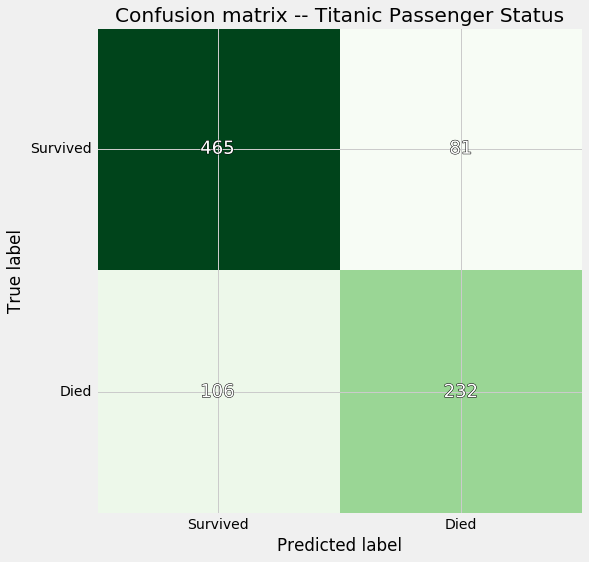
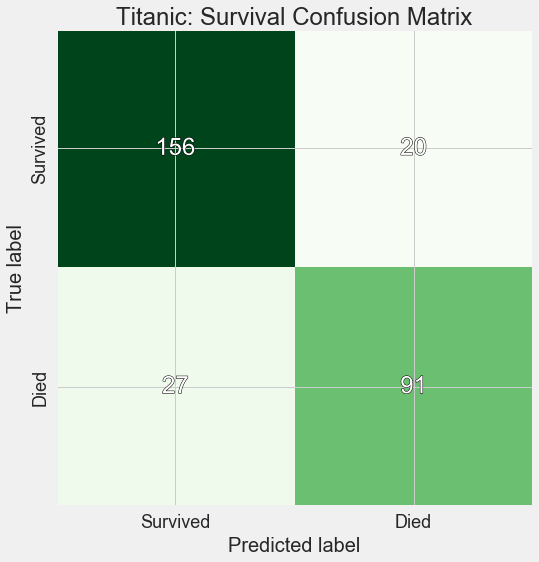
omwr

diff --git a/_posts/2016-7-14-Titanic.md b/_posts/2016-7-14-Titanic.md
@@ -3,29 +3,16 @@ layout: post
 title: Titanic Passengers -- Who Survived?
 ---
 ![scatter](../images/titanicfarevage.png)
-&nbsp;&nbsp;&nbsp;&nbsp;&nbsp;&nbsp;[Here](https://github.com/forzavitale/DSI-projects/tree/master/PROJECTS/Titanic) I used logistic regression on the widely available Titanic passenger data set to construct a model predicting survival.  For 891 passenger observations, original features included: survival status, passenger class, full name, sex, age, number of siblings on board, number of parents/children on board, ticket information, fare paid, cabin information, and location of embarkation.
+&nbsp;&nbsp;&nbsp;&nbsp;&nbsp;&nbsp; Here, we use logistic regression on the widely-available Titanic passenger data set to predict passenger survival.  For 891 passenger observations, features provided include: survival status, passenger class, full name, sex, age, number of siblings on board, number of parents/children on board, ticket information, fare paid, cabin information, and point of embarkation.
 
-&nbsp;&nbsp;&nbsp;&nbsp;&nbsp;&nbsp;Although about 20% of ages are missing from the data set, a histogram shows a roughly normal distribution of age around 30 years, with at least 40 children.
+&nbsp;&nbsp;&nbsp;&nbsp;&nbsp;&nbsp; Although about 20% of ages are missing from the data set, a histogram shows a roughly normal distribution of age around 30 years, with at least 40 children.
 
 ![histo](../images/titanicagehisto.png)
 
-&nbsp;&nbsp;&nbsp;&nbsp;&nbsp;&nbsp;From the following scatterplot of fare paid vs age of passenger, we can see for example young males and well-paying females had relatively high survival rates. It appears that most males who paid no fare did not survive (no females paid no fare).  There were not as many older women as older men, either alive or dead, and, in fact, almost all of them survived. The 80 year old man perhaps got helped off because he was so old. In general, it appears that the proportion of surviving females to perishing females was higher than that of surviving males to perishing males.
+&nbsp;&nbsp;&nbsp;&nbsp;&nbsp;&nbsp; From the following scatterplot of fare paid vs age of passenger, we can see for example young males and well-paying females had relatively high survival rates. It appears that most males who paid no fare did not survive (no females paid no fare).  There were not as many older women as older men, either alive or dead; further, almost all of them survived. The 80 year old man perhaps got helped off because he was so old.  
 
 ![scatter](../images/titanicfarevage.png)
 
-&nbsp;&nbsp;&nbsp;&nbsp;&nbsp;&nbsp;For our logistic regression final model including gender, class dummy variables, 'S' embarkation dummy variable as features, we obtain the following confusion matrix:
+&nbsp;&nbsp;&nbsp;&nbsp;&nbsp;&nbsp; The four most important features in determining survival status in our model ended up being: number of siblings on board, 3rd class status, and a title of either 'Mr' or an officer-rank.  The model gives the following confusion matrix:
 
 ![cm](../images/titaniccm.png)
-
-accuracy: 0.788461538462
-
-precision: 0.741214057508
-
-recall: 0.686390532544
-
-area under curve: 0.769019442096
-
-And a plot of the ROC curve itself:
-
-
-![ROC](../images/titanicROC.png)
